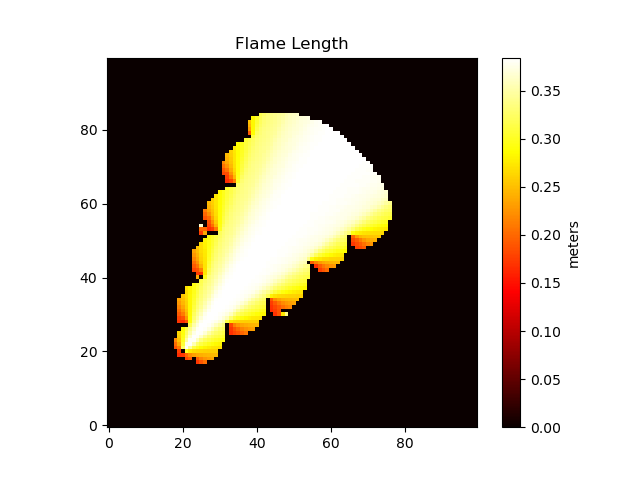
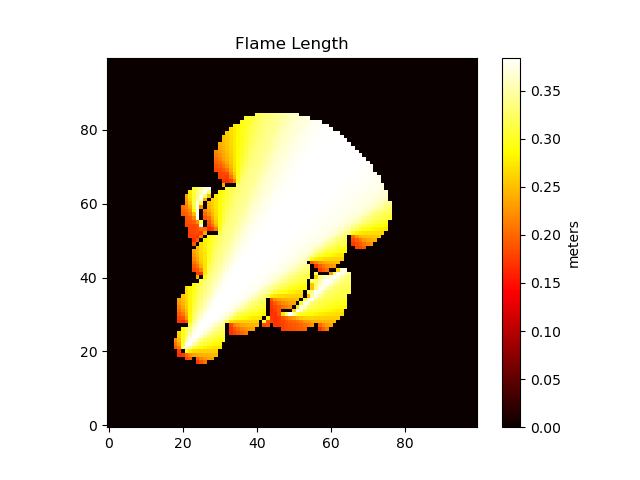
Make select_frontier_cells_for_suppression return only a single sequence of cells from all of the perimeters

Changed region(s): [[0.2812, 0.2188, 0.4062, 0.5], [0.4062, 0.5625, 0.5625, 0.6875]]

diff --git a/docs/index.html b/docs/index.html
@@ -15187,7 +15187,6 @@ Fork: {'Min': 2081.852, 'Max': 2789.6057, 'Mean': 2539.8635, 'Stdev': 171.96436}
     <span class="org-keyword">return</span> frontier_cell_scores
 
 
-<span class="org-comment-delimiter"># </span><span class="org-comment">FIXME: This should be selecting a single best choice from all of the perimeters.</span>
 <span class="org-comment-delimiter"># </span><span class="org-comment">NOTE: max_suppression_length should be expressed in cell side lengths</span>
 <span class="org-keyword">def</span> <span class="org-function-name">select_frontier_cells_for_suppression</span>(ordered_frontier_cells, frontier_cell_scores, max_suppression_length):
     <span class="org-keyword">if</span> max_suppression_length <span class="org-operator">&lt;</span> 1.0:
@@ -15195,6 +15194,7 @@ Fork: {'Min': 2081.852, 'Max': 2789.6057, 'Mean': 2539.8635, 'Stdev': 171.96436}
                          <span class="org-operator">+</span> <span class="org-string">" to suppress at least one frontier cell."</span>)
 
     <span class="org-variable-name">selected_frontier_cells</span> <span class="org-operator">=</span> []
+    <span class="org-variable-name">top_path_score</span>          <span class="org-operator">=</span> 0.0
 
     <span class="org-keyword">for</span> i <span class="org-keyword">in</span> <span class="org-builtin">range</span>(<span class="org-builtin">len</span>(ordered_frontier_cells)):
         <span class="org-variable-name">frontier</span>        <span class="org-operator">=</span> ordered_frontier_cells[i]
@@ -15232,7 +15232,9 @@ Fork: {'Min': 2081.852, 'Max': 2789.6057, 'Mean': 2539.8635, 'Stdev': 171.96436}
             <span class="org-variable-name">suppression_length</span> <span class="org-operator">-=</span> distances[start_idx]
             <span class="org-variable-name">start_idx</span>          <span class="org-operator">+=</span> 1
 
-        selected_frontier_cells.append(unburned_cells[best_start_idx:best_stop_idx])
+        <span class="org-keyword">if</span> best_path_score <span class="org-operator">&gt;</span> top_path_score:
+            <span class="org-variable-name">top_path_score</span>          <span class="org-operator">=</span> best_path_score
+            <span class="org-variable-name">selected_frontier_cells</span> <span class="org-operator">=</span> unburned_cells[best_start_idx:best_stop_idx]
 
     <span class="org-keyword">return</span> selected_frontier_cells
 </pre>
@@ -15258,10 +15260,9 @@ Fork: {'Min': 2081.852, 'Max': 2789.6057, 'Mean': 2539.8635, 'Stdev': 171.96436}
                                                                     max_suppression_length)
 
     <span class="org-comment-delimiter"># </span><span class="org-comment">Change the values in fuel_model_matrix to non-burnable for all selected_frontier_cells</span>
-    <span class="org-keyword">for</span> fireline <span class="org-keyword">in</span> selected_frontier_cells:
-        <span class="org-keyword">for</span> cell <span class="org-keyword">in</span> fireline:
-            (<span class="org-variable-name">y</span>, <span class="org-variable-name">x</span>)                 <span class="org-operator">=</span> cell
-            <span class="org-variable-name">fuel_model_matrix</span>[<span class="org-variable-name">y</span>,<span class="org-variable-name">x</span>] <span class="org-operator">=</span> 91 <span class="org-comment-delimiter"># </span><span class="org-comment">non-burnable</span>
+    <span class="org-keyword">for</span> cell <span class="org-keyword">in</span> selected_frontier_cells:
+        (<span class="org-variable-name">y</span>, <span class="org-variable-name">x</span>)                 <span class="org-operator">=</span> cell
+        <span class="org-variable-name">fuel_model_matrix</span>[<span class="org-variable-name">y</span>,<span class="org-variable-name">x</span>] <span class="org-operator">=</span> 91 <span class="org-comment-delimiter"># </span><span class="org-comment">non-burnable</span>
 
     <span class="org-keyword">return</span> fuel_model_matrix
 </pre>
@@ -15402,7 +15403,7 @@ Fork: {'Min': 2081.852, 'Max': 2789.6057, 'Mean': 2539.8635, 'Stdev': 171.96436}
 
 
 <span class="org-comment-delimiter"># </span><span class="org-comment">selected_matrix - part 2</span>
-<span class="org-keyword">for</span> (y, x) <span class="org-keyword">in</span> selected_frontier_cells[0]:
+<span class="org-keyword">for</span> (y, x) <span class="org-keyword">in</span> selected_frontier_cells:
     <span class="org-variable-name">selected_matrix</span>[<span class="org-variable-name">y</span>,<span class="org-variable-name">x</span>] <span class="org-operator">=</span> 2
 
 
@@ -15460,7 +15461,7 @@ Fork: {'Min': 2081.852, 'Max': 2789.6057, 'Mean': 2539.8635, 'Stdev': 171.96436}
 </div>
 
 <table id="order-frontier-cells-simple-ellipse-heatmaps">
-<caption class="t-above"><span class="table-number">Table 17:</span> Frontier Cells Before and After Ordering</caption>
+<caption class="t-above"><span class="table-number">Table 17:</span> Frontier cells before and after ordering</caption>
 
 <colgroup>
 <col  class="org-left">
@@ -15475,12 +15476,10 @@ Fork: {'Min': 2081.852, 'Max': 2789.6057, 'Mean': 2539.8635, 'Stdev': 171.96436}
 </tbody>
 </table>
 
-<table id="select-frontier-cells-simple-ellipse-heatmaps">
-<caption class="t-above"><span class="table-number">Table 18:</span> Frontier Cells Selected by Best Combined Suppression Score</caption>
+<table id="score-frontier-cells-simple-ellipse-heatmaps">
+<caption class="t-above"><span class="table-number">Table 18:</span> Frontier cells' suppression priority scores and fireline construction lengths</caption>
 
 <colgroup>
-<col  class="org-left">
-
 <col  class="org-left">
 
 <col  class="org-left">
@@ -15489,10 +15488,16 @@ Fork: {'Min': 2081.852, 'Max': 2789.6057, 'Mean': 2539.8635, 'Stdev': 171.96436}
 <tr>
 <td class="org-left"><img src="pics/scored_frontier_cells.png" alt="scored_frontier_cells.png"></td>
 <td class="org-left"><img src="pics/measured_frontier_cells.png" alt="measured_frontier_cells.png"></td>
-<td class="org-left"><img src="pics/selected_frontier_cells.png" alt="selected_frontier_cells.png"></td>
 </tr>
 </tbody>
 </table>
+
+
+<div id="select-frontier-cells-simple-ellipse-heatmaps" class="figure">
+<p><img src="pics/selected_frontier_cells.png" alt="selected_frontier_cells.png">
+</p>
+<p><span class="figure-number">Figure 6: </span>Frontier cells selected by best combined suppression score</p>
+</div>
 </div>
 </div>
 
@@ -15668,7 +15673,7 @@ spread_state.set_start_time(start_time)
 </div>
 
 <table id="suppress-cells-by-building-firelines-heatmaps">
-<caption class="t-above"><span class="table-number">Table 19:</span> Flame Length Evolution over 24 Hours with Suppression Applied Every 2 Hours (Firelines Shown on the Right)</caption>
+<caption class="t-above"><span class="table-number">Table 19:</span> Flame length evolution over 24 Hours with suppression applied every 2 hours (firelines shown on the right)</caption>
 
 <colgroup>
 <col  class="org-left">

diff --git a/src/pyretechnics/suppression.py b/src/pyretechnics/suppression.py
@@ -269,7 +269,6 @@ def score_frontier_cells(ordered_frontier_cells, scoring_function):
     return frontier_cell_scores
 
 
-# FIXME: This should be selecting a single best choice from all of the perimeters.
 # NOTE: max_suppression_length should be expressed in cell side lengths
 def select_frontier_cells_for_suppression(ordered_frontier_cells, frontier_cell_scores, max_suppression_length):
     if max_suppression_length < 1.0:
@@ -277,6 +276,7 @@ def select_frontier_cells_for_suppression(ordered_frontier_cells, frontier_cell_
                          + " to suppress at least one frontier cell.")
 
     selected_frontier_cells = []
+    top_path_score          = 0.0
 
     for i in range(len(ordered_frontier_cells)):
         frontier        = ordered_frontier_cells[i]
@@ -314,7 +314,9 @@ def select_frontier_cells_for_suppression(ordered_frontier_cells, frontier_cell_
             suppression_length -= distances[start_idx]
             start_idx          += 1
 
-        selected_frontier_cells.append(unburned_cells[best_start_idx:best_stop_idx])
+        if best_path_score > top_path_score:
+            top_path_score          = best_path_score
+            selected_frontier_cells = unburned_cells[best_start_idx:best_stop_idx]
 
     return selected_frontier_cells
 # select-frontier-cells-for-suppression ends here
@@ -333,10 +335,9 @@ def build_firelines(fuel_model_matrix, frontier_cells, suppression_priority_func
                                                                     max_suppression_length)
 
     # Change the values in fuel_model_matrix to non-burnable for all selected_frontier_cells
-    for fireline in selected_frontier_cells:
-        for cell in fireline:
-            (y, x)                 = cell
-            fuel_model_matrix[y,x] = 91 # non-burnable
+    for cell in selected_frontier_cells:
+        (y, x)                 = cell
+        fuel_model_matrix[y,x] = 91 # non-burnable
 
     return fuel_model_matrix
 # build-firelines ends here
